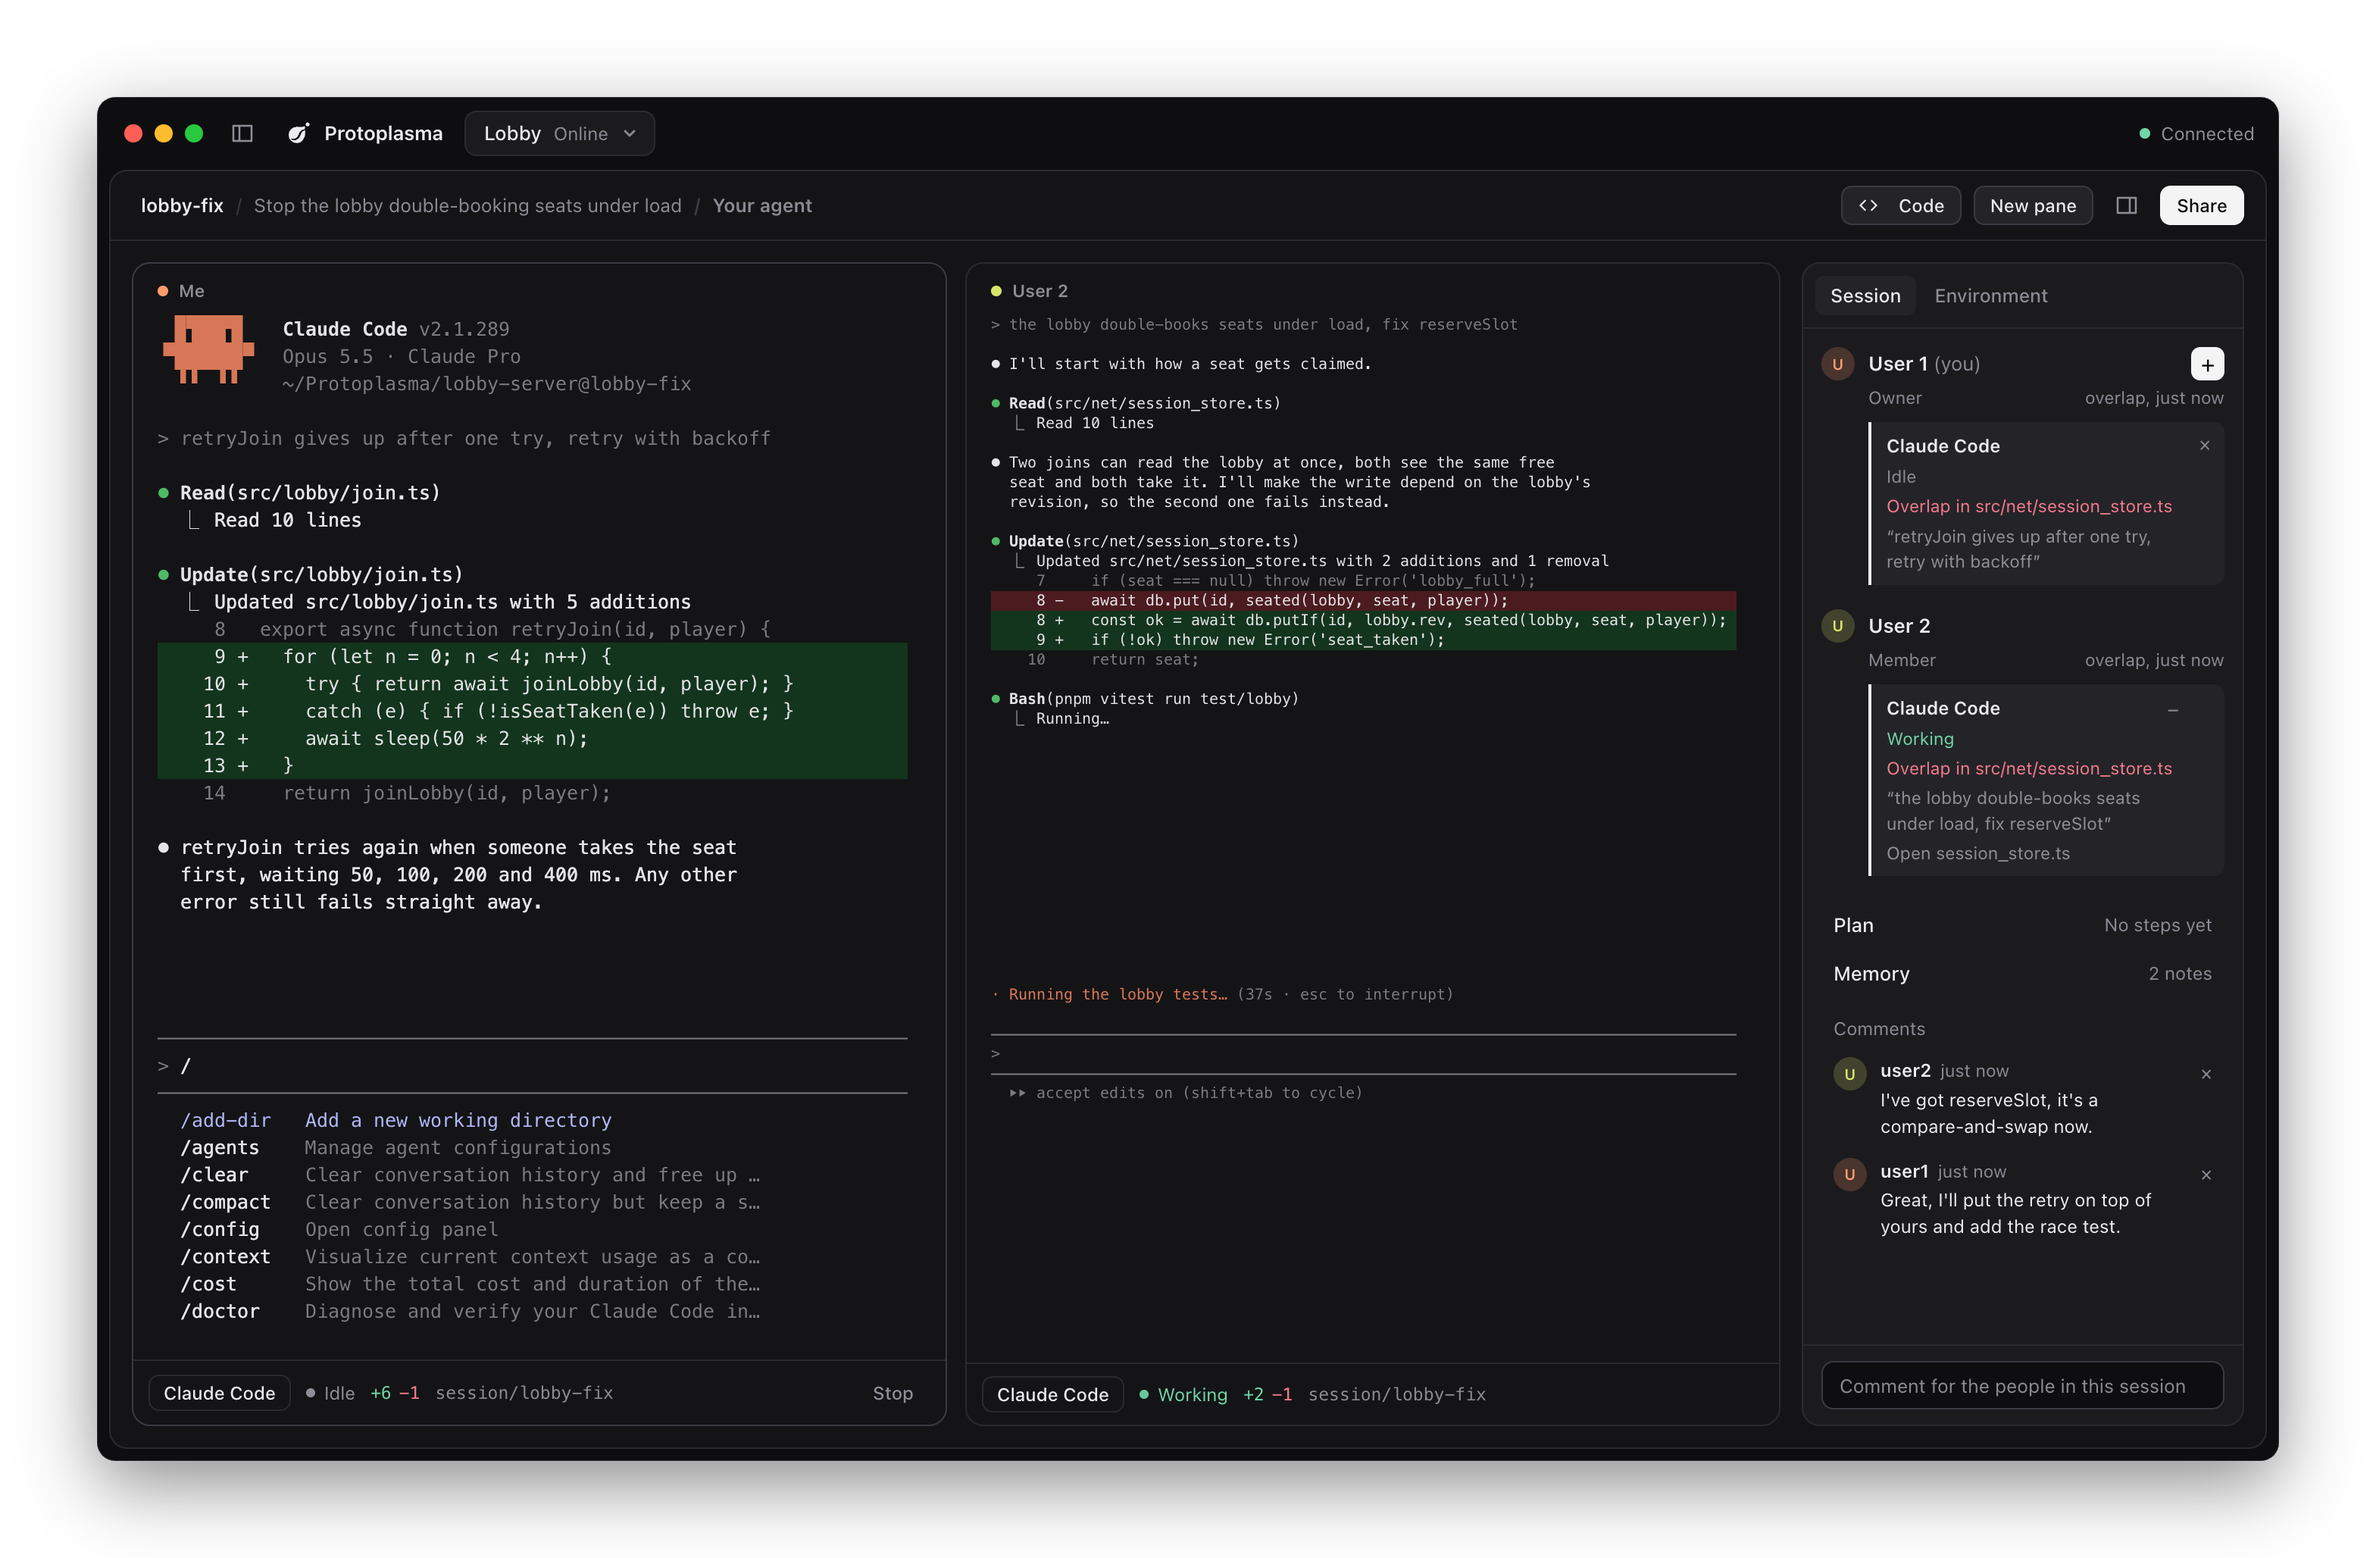
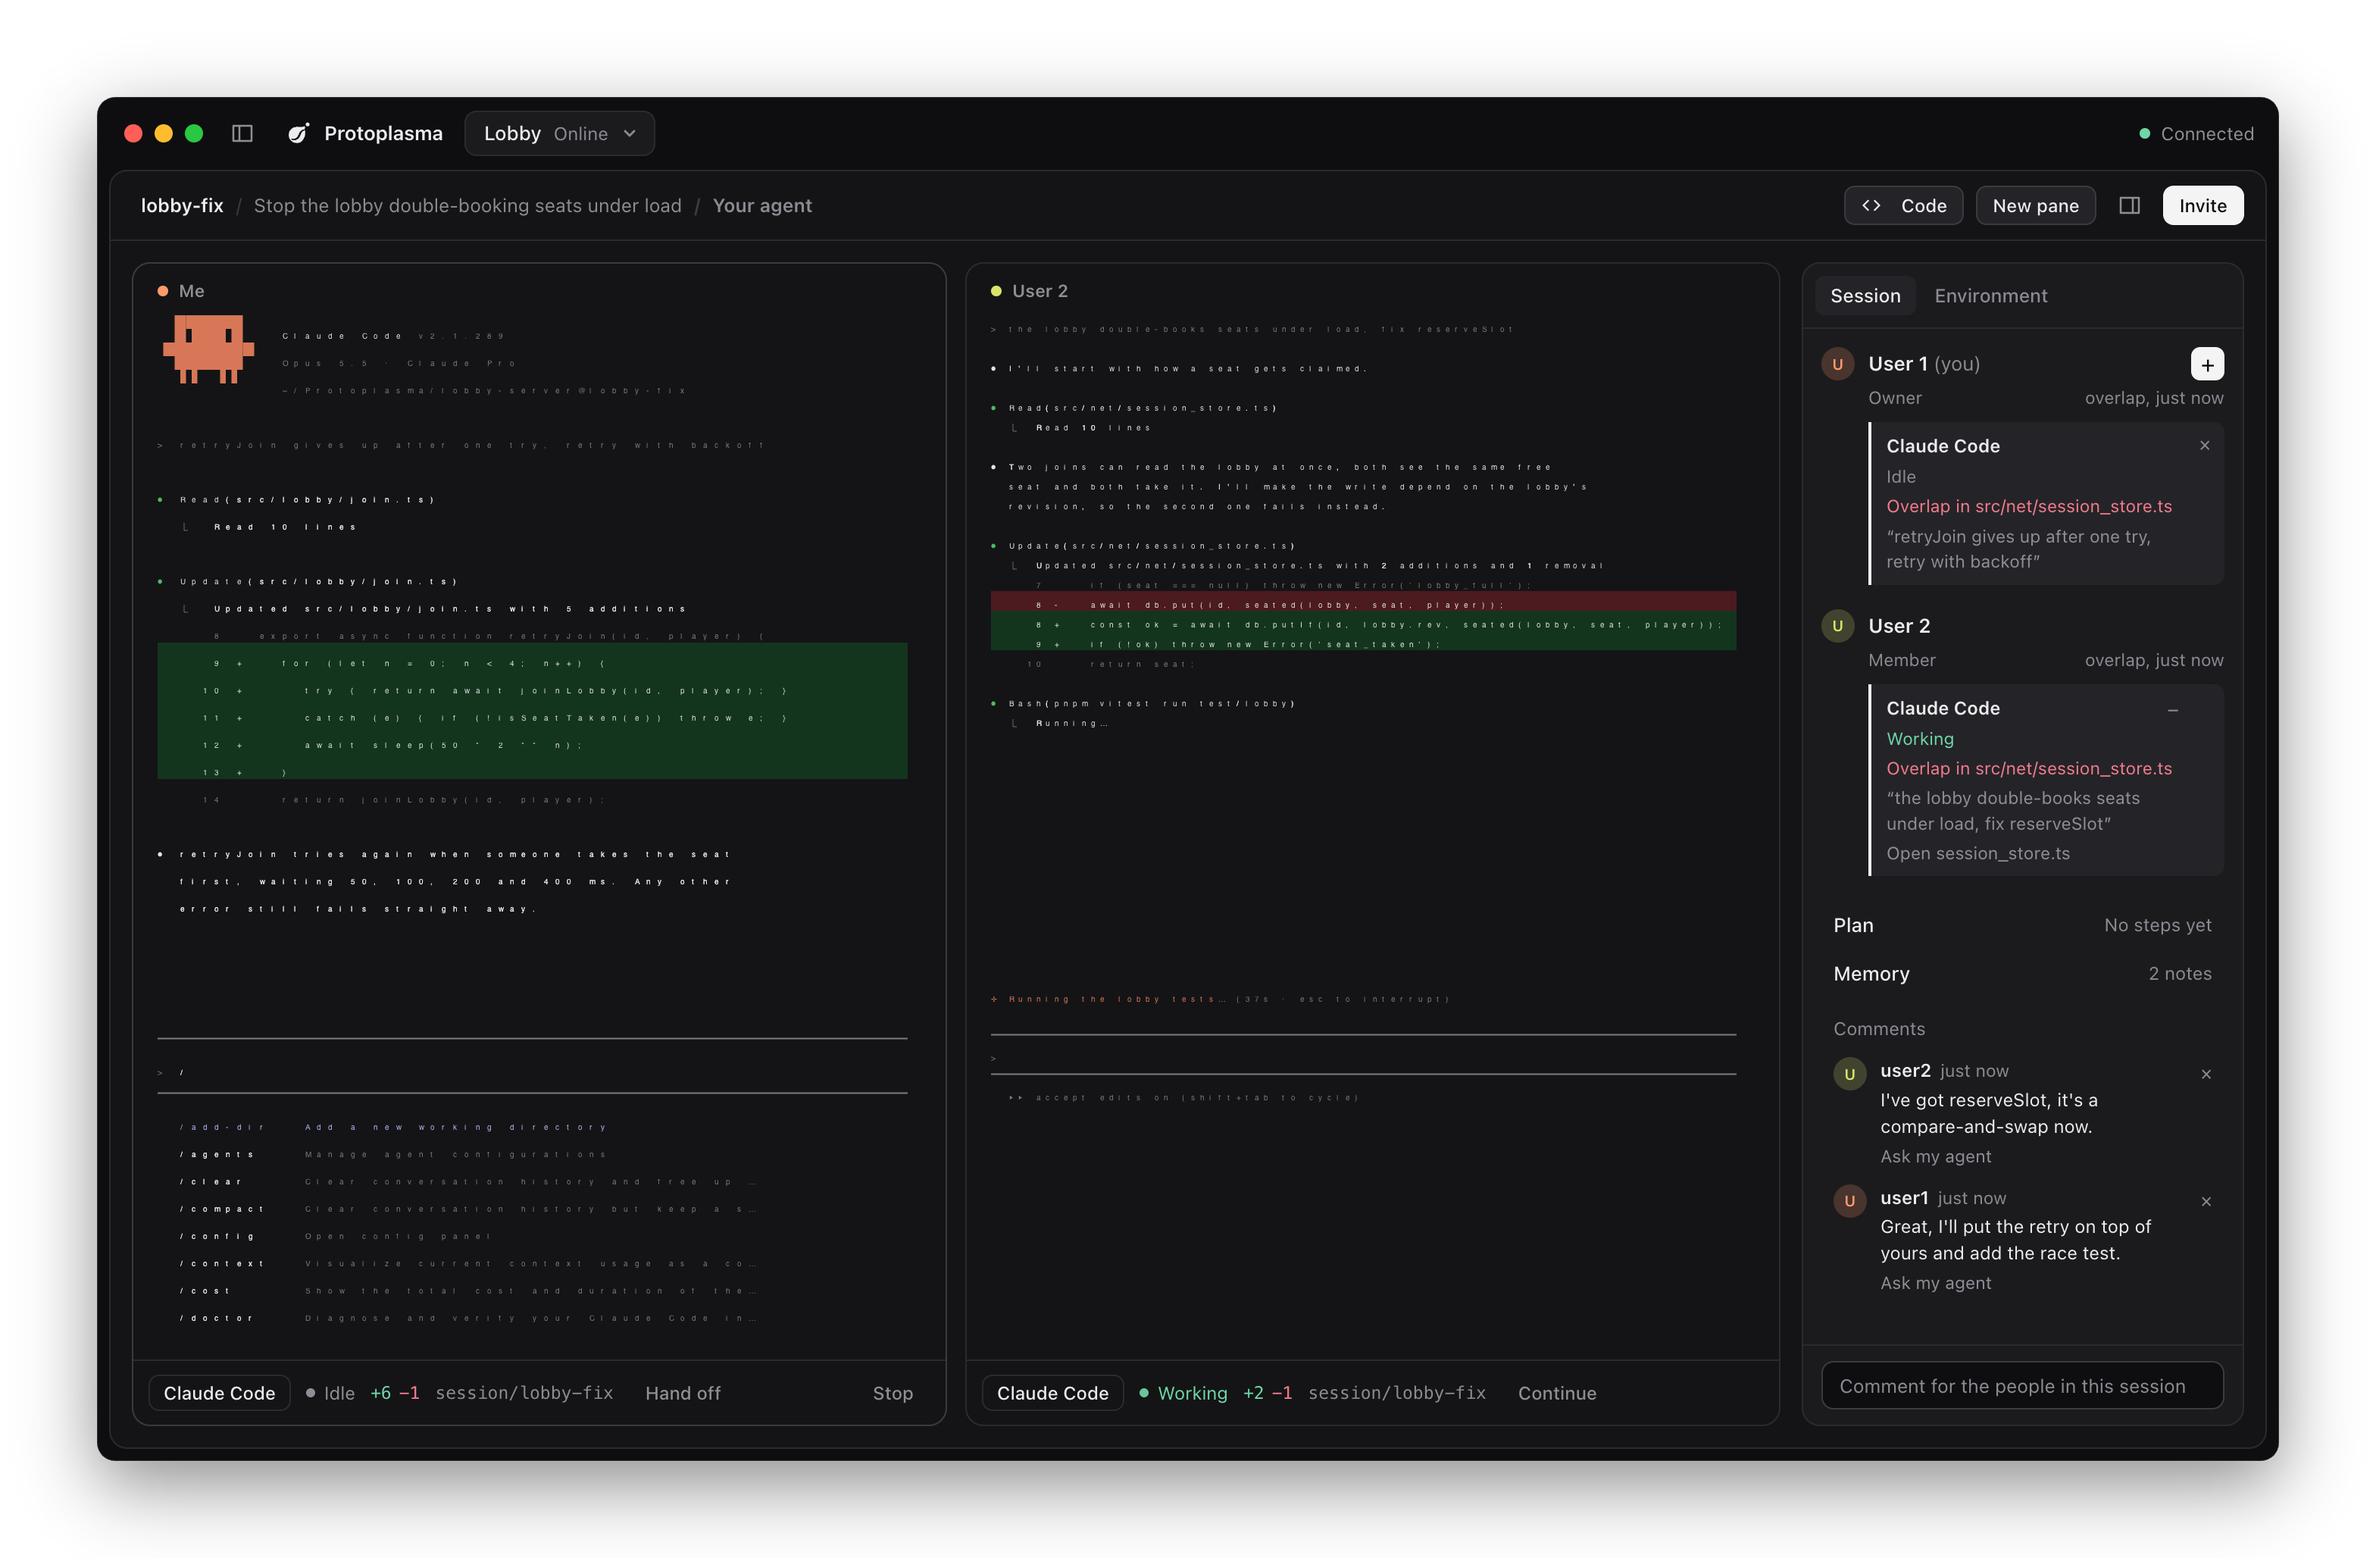
Scrolling a terminal that is gone by the next frame no longer throws, a test for the Other command, and new README pictures

diff --git a/test/lan.test.js b/test/lan.test.js
@@ -266,6 +266,19 @@ test('Codex\'s first four hooks keep their exact text, and newer ones come after
   assert.ok(setting.endsWith(`,Interrupt=[{hooks=[{type="command",command=${JSON.stringify(CODEX_HOOK)},timeout=3}]}]}`), 'and an interrupt');
 });
 
+test('an "Other command" runs as it is written, even when it is called claude: no hooks and no hook secret', async () => {
+  const dir = fs.mkdtempSync(path.join(os.tmpdir(), 'protoplasma-other-'));
+  const claude = path.join(dir, 'claude'); // prints what it was started with
+  fs.writeFileSync(claude, '#!/bin/sh\necho "args:[$*] secret:[$PROTO_HOOK_SECRET]"; exec cat\n', { mode: 0o755 });
+  const lane = startLane({ hub: 'http://127.0.0.1:9', team: 't', token: 'tok-bob', session: 's', cmd: claude, args: ['--model', 'x'], bare: true });
+  let out = '';
+  lane.term.onData(d => { out += d; });
+  try {
+    for (let i = 0; i < 250 && !/secret:\[/.test(out); i++) await sleep(20);
+    assert.match(out, /args:\[--model x\] secret:\[\]/, 'were it given hooks, they would go straight to the hub, past the relay');
+  } finally { lane.term.kill(); fs.rmSync(dir, { recursive: true, force: true }); }
+});
+
 test('the hook relay sends the hub only what it reads: no file contents, and only the start of a prompt', async () => {
   const seen = [];
   const fake = http.createServer((req, res) => {

diff --git a/app/renderer.js b/app/renderer.js
@@ -1270,7 +1270,9 @@ function renderRoom(lanes) {
     t.el.hidden = !onStage.includes(l.id);
     gpu(t, !t.el.hidden);
     if (scaleOff(t)) { gpu(t, false); gpu(t, true); }
-    if (!t.el.hidden && !t.shown) requestAnimationFrame(() => t.term.scrollToBottom()); // output while hidden can leave it scrolled up
+    // Output while hidden can leave it scrolled up. By the next frame the terminal may be gone (its session left the
+    // screen, and frames wait while the window is hidden): scrolling a disposed one throws inside xterm.
+    if (!t.el.hidden && !t.shown) requestAnimationFrame(() => { if (terms.get(l.id) === t) t.term.scrollToBottom(); });
     t.shown = !t.el.hidden;
     t.el.style.setProperty('--c', colorFor(l.login));
     if (!mine) { const cols = laneCols(l.cols), rows = laneRows(l.rows); if (t.term.cols !== cols || t.term.rows !== rows) t.term.resize(cols, rows); }

diff --git a/HANDOFF.md b/HANDOFF.md
@@ -79,6 +79,10 @@ report, then decide on Tauri only if memory still matters.
   six busy teammate terminals that saves 30–40 MB in the page process. Measure with the new `scripts/memory.js`; the
   playground now starts with `--expose-gc`, so it measures after a collection. The GPU process can't be trimmed from
   the app: mostly the compositor and Skia's cache. Details in the research report, option A.
+- **Explained and fixed on 15 Nov:** the page error "Cannot read properties of undefined (reading 'dimensions')" was
+  `renderRoom`'s `requestAnimationFrame(() => t.term.scrollToBottom())` running on a terminal disposed before that
+  frame came (frames wait while the window is hidden). It now checks the terminal is still the lane's. The notes
+  below are what was tried before the stack was known.
 - **An unexplained page error, seen once:** "Cannot read properties of undefined (reading 'dimensions')".
   - When: one e2e run, the first launch of a freshly downloaded Electron 44.10.2, while a second agent's terminal was
     laid out (between "the clone gets the push guard" and "shows when the branch falls behind").

diff --git a/docs/sessions/2026-11-15.md b/docs/sessions/2026-11-15.md
@@ -106,3 +106,10 @@ call after he has tried the status fixes live.
   so its hooks would have gone straight to the hub, past `safeHookReply` and `slimHook`. lane.js now ignores the
   table for a `bare` agent. Also: bringing sessions into view has its own budget on the hub (40 in 10 s), since each
   one replays screens.
+- **The "reading 'dimensions'" page error is explained and fixed.** e2e printed it again, now with its stack:
+  `renderRoom` queues `scrollToBottom()` for the next frame when a terminal comes on screen, and the terminal can be
+  disposed before that frame (frames wait while the window is hidden). The queued call now checks the terminal is
+  still the lane's. So the earlier guess (output queued in a disposed terminal) wasn't it; that change stays, it's
+  harmless.
+- e2e 143 of 143 on the state with the conflict chips. README pictures regenerated (`npm run screenshot`,
+  `npm run readme-art`); `npm run demo` (the gif) not rerun.
